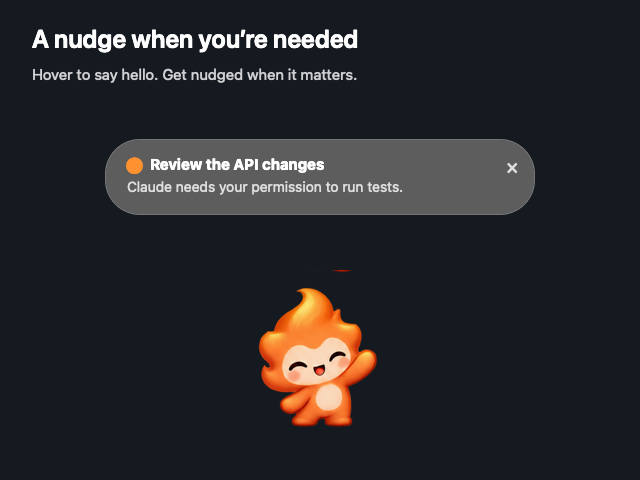
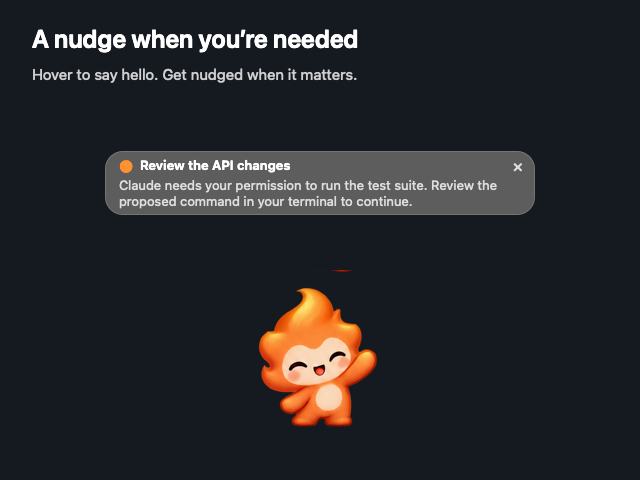
Compact notification cards and reveal sample notifications

Changed region(s): [[0.1562, 0.2812, 0.8438, 0.4688], [0.7812, 0.4062, 0.8438, 0.4688]]

diff --git a/Sources/CompanionApp/PetPanel.swift b/Sources/CompanionApp/PetPanel.swift
@@ -120,33 +120,39 @@ final class NotificationCard: NSVisualEffectView {
     blendingMode = .behindWindow
     state = .active
     wantsLayer = true
-    layer?.cornerRadius = 35
+    layer?.cornerRadius = 18
     layer?.borderWidth = 1
     layer?.borderColor = NSColor.white.withAlphaComponent(0.14).cgColor
     appearance = NSAppearance(named: .darkAqua)
     let icon = NSTextField(labelWithString: notice.needsInput ? "●" : "✓")
     icon.textColor = notice.needsInput ? .systemOrange : .systemGreen
-    icon.font = .boldSystemFont(ofSize: 20)
-    icon.frame = NSRect(x: 18, y: 35, width: 22, height: 26)
+    icon.font = .boldSystemFont(ofSize: 15)
+    icon.frame = NSRect(x: 12, y: frame.height - 25, width: 18, height: 19)
     addSubview(icon)
     let title = NSTextField(labelWithString: notice.title)
-    title.font = .boldSystemFont(ofSize: 15)
+    title.font = .systemFont(ofSize: 13, weight: .semibold)
     title.textColor = .white
     title.lineBreakMode = .byTruncatingTail
-    title.frame = NSRect(x: 43, y: 38, width: frame.width - 88, height: 22)
+    title.frame = NSRect(x: 33, y: frame.height - 24, width: frame.width - 69, height: 18)
     addSubview(title)
     let preview = NSTextField(
       labelWithString: notice.message.replacingOccurrences(of: "\n", with: " "))
-    preview.font = .systemFont(ofSize: 14)
+    preview.font = .systemFont(ofSize: 13)
     preview.textColor = .secondaryLabelColor
-    preview.lineBreakMode = .byTruncatingTail
-    preview.frame = NSRect(x: 20, y: 15, width: frame.width - 45, height: 22)
+    preview.maximumNumberOfLines = 2
+    preview.cell?.wraps = true
+    preview.cell?.isScrollable = false
+    preview.cell?.usesSingleLineMode = false
+    preview.lineBreakMode = .byWordWrapping
+    preview.cell?.truncatesLastVisibleLine = true
+    toolTip = notice.message
+    preview.frame = NSRect(x: 12, y: 6, width: frame.width - 24, height: 32)
     addSubview(preview)
     let close = NSButton(title: "×", target: self, action: #selector(closeCard))
     close.isBordered = false
-    close.font = .systemFont(ofSize: 20)
+    close.font = .systemFont(ofSize: 17)
     close.contentTintColor = .secondaryLabelColor
-    close.frame = NSRect(x: frame.width - 35, y: 36, width: 25, height: 25)
+    close.frame = NSRect(x: frame.width - 31, y: frame.height - 29, width: 28, height: 28)
     close.toolTip = "Dismiss notification"
     close.setAccessibilityLabel("Dismiss notification")
     addSubview(close)
@@ -455,10 +461,10 @@ final class PetPanel: NSObject {
     cards = []
     for n in notices {
       let panel = FloatingPanel(
-        contentRect: NSRect(x: 0, y: 0, width: 430, height: 76),
+        contentRect: NSRect(x: 0, y: 0, width: 430, height: 64),
         styleMask: [.borderless, .nonactivatingPanel], backing: .buffered, defer: false)
       configure(panel)
-      let card = NotificationCard(notice: n, frame: NSRect(x: 0, y: 0, width: 430, height: 76))
+      let card = NotificationCard(notice: n, frame: NSRect(x: 0, y: 0, width: 430, height: 64))
       card.open = { [weak self] in self?.onOpen?(n) }
       card.dismiss = { [weak self] in self?.onDismiss?(n.id) }
       panel.contentView = card

diff --git a/scripts/ReadmeMedia.swift b/scripts/ReadmeMedia.swift
@@ -71,12 +71,12 @@ extension Bundle { static var module: Bundle { .main } }
       notice: Notice(
         sessionID: "preview-done", title: "Polish the settings screen",
         message: "Changes are ready. All tests pass."),
-      frame: NSRect(x: 505, y: 426, width: 430, height: 76))
+      frame: NSRect(x: 505, y: 426, width: 430, height: 64))
     let cardB = NotificationCard(
       notice: Notice(
         sessionID: "preview-input", title: "Review the API changes",
-        message: "Claude needs your permission to run tests.", needsInput: true),
-      frame: NSRect(x: 505, y: 337, width: 430, height: 76))
+        message: "Claude needs your permission to run the test suite. Review the proposed command in your terminal to continue.", needsInput: true),
+      frame: NSRect(x: 505, y: 354, width: 430, height: 64))
     canvas.addSubview(cardA)
     canvas.addSubview(cardB)
     let pet = PetView(frame: NSRect(x: 760, y: 135, width: 160, height: 160))
@@ -104,8 +104,8 @@ extension Bundle { static var module: Bundle { .main } }
     let notice = NotificationCard(
       notice: Notice(
         sessionID: "preview", title: "Review the API changes",
-        message: "Claude needs your permission to run tests.", needsInput: true),
-      frame: NSRect(x: 105, y: 265, width: 430, height: 76))
+        message: "Claude needs your permission to run the test suite. Review the proposed command in your terminal to continue.", needsInput: true),
+      frame: NSRect(x: 105, y: 265, width: 430, height: 64))
     tour.addSubview(notice)
     var frames: [CGImage] = []
     for i in 0..<60 {

diff --git a/Sources/CompanionCore/PanelLayout.swift b/Sources/CompanionCore/PanelLayout.swift
@@ -5,9 +5,9 @@ public struct PanelLayout {
   public var pet: CGRect
   public var cards: [CGRect]
   public init(screen: CGRect, petOrigin: CGPoint, count: Int) {
-    let capacity = max(0, Int((screen.height - 213) / 86))
+    let capacity = max(0, Int((screen.height - 213) / 72))
     let actual = min(max(0, count), capacity)
-    let total = CGFloat(actual) * 86
+    let total = CGFloat(actual) * 72
     let x = min(max(petOrigin.x, screen.minX), screen.maxX - 192)
     let y = min(max(petOrigin.y, screen.minY), screen.maxY - 188 - total - 8)
     pet = CGRect(x: x, y: max(screen.minY, y), width: 192, height: 188)
@@ -15,7 +15,7 @@ public struct PanelLayout {
     let cardX = min(max(pet.maxX - width, screen.minX), screen.maxX - width)
     cards = []
     cards = (0..<actual).map {
-      CGRect(x: cardX, y: pet.maxY + 8 + CGFloat(actual - 1 - $0) * 86, width: width, height: 76)
+      CGRect(x: cardX, y: pet.maxY + 8 + CGFloat(actual - 1 - $0) * 72, width: width, height: 64)
     }
   }
 }

diff --git a/Sources/CompanionApp/AppDelegate.swift b/Sources/CompanionApp/AppDelegate.swift
@@ -233,6 +233,8 @@ final class AppDelegate: NSObject, NSApplicationDelegate {
       Notice(
         sessionID: "sample", title: "Sample notification",
         message: "Your companion is ready. Real session messages appear here."))
+    panel.setVisible(true)
+    panel.revealForAttention()
     refresh()
   }
   func demo() {
